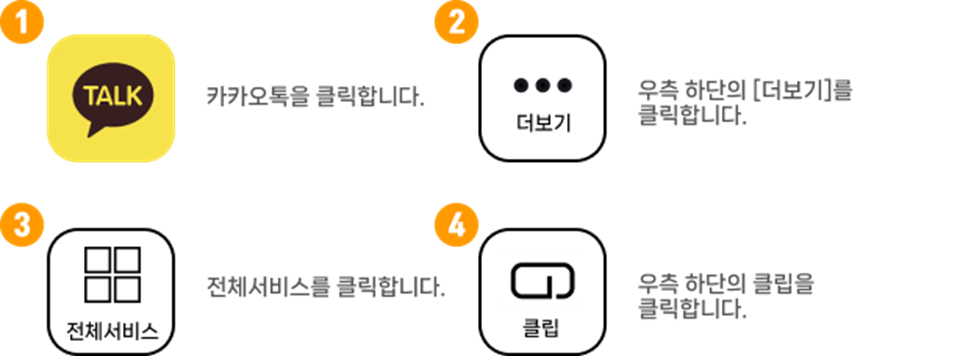
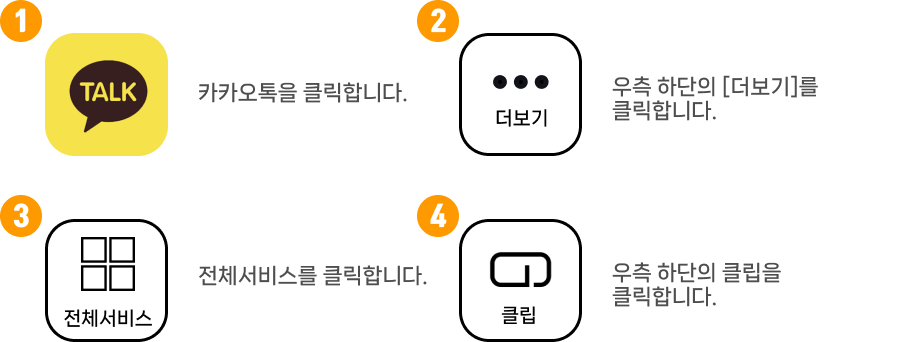
feat: InfoModal css

diff --git a/frontend/src/components/Modal/InfoModal.jsx b/frontend/src/components/Modal/InfoModal.jsx
@@ -2,8 +2,8 @@ import React from 'react';
 
 export default function InfoModal() {
   return (
-    <div className="w-[334px] h-[360px] fixed top-1/2 left-1/2 transform -translate-x-1/2 -translate-y-1/2 rounded-[30px] bg-[#ffffff] border-2 border-[#ffb876] flex flex-col items-center z-50">
-      <div className="my-[26px] h-auto flex flex-col gap-[20px]">
+    <div className="w-[334px] fixed top-1/2 left-1/2 transform -translate-x-1/2 -translate-y-1/2 rounded-[30px] bg-[#ffffff] border-2 border-[#ffb876] flex flex-col items-center z-50 px-5 py-6">
+      <div className="h-auto flex flex-col gap-[20px]">
         <p className="text-xl font-bold text-center text-[#ff8a00]">
           Klip이란?
         </p>
@@ -29,14 +29,10 @@ export default function InfoModal() {
           </div>
         </div>
       </div>
-      <div className="w-[290px] h-0.5 bg-[#FF971B]"></div>
-      <div className="flex flex-col mt-[16.5px] gap-[10px] justify-center">
+      <div className="my-5 w-[290px] h-0.5 bg-[#FF971B]"></div>
+      <div className="flex flex-col gap-[10px] justify-center ml-5 mb-2">
         <p className="text-xl font-bold text-[#ff8a00] text-center">사용법</p>
-        <img
-          src="assets/manual_modal.png"
-          alt="manual"
-          className="w-[312px] h-[114px] ml-[20px]"
-        />
+        <img src="assets/manual_modal.png" alt="manual" className="w-[320px]" />
       </div>
     </div>
   );
